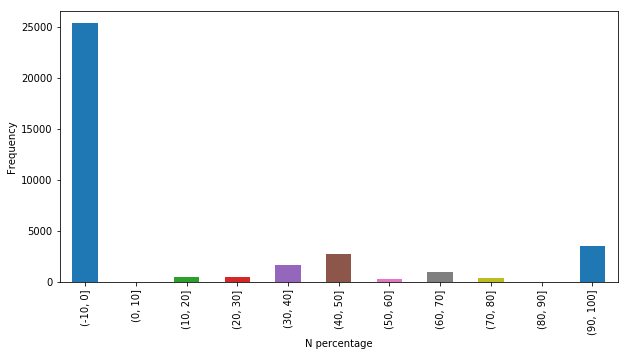
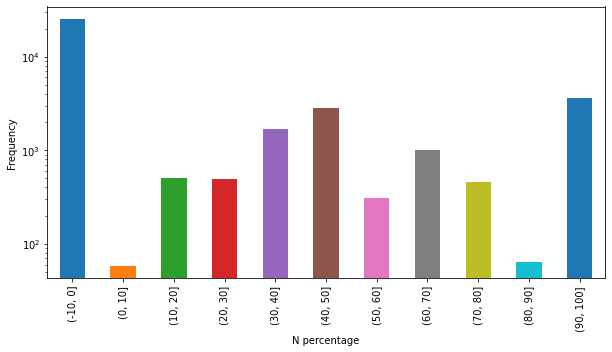
This is a new commit for what I originally planned to be amended

Changed region(s): [[0.0, 0.0, 0.9935, 1.0]]

diff --git a/Paper4DataAnalysis.py b/Paper4DataAnalysis.py
@@ -56,7 +56,8 @@ def main():
             .sort_index()
             .plot.bar(ax=ax)
     )
-    
+    ax.set_yscale('log')
+
     statistics(dataset)
 
     plt.xlabel('T percentage')
@@ -74,6 +75,7 @@ def main():
             .plot.bar(ax=ax)
     )
     statistics(dataset)
+    ax.set_yscale('log')
 
     plt.xlabel('N percentage')
     plt.ylabel('Frequency')
@@ -89,6 +91,7 @@ def main():
             .plot.bar(ax=ax)
     )
     statistics(dataset)
+    ax.set_yscale('log')
 
     plt.xlabel('U percentage')
     plt.ylabel('Frequency')
